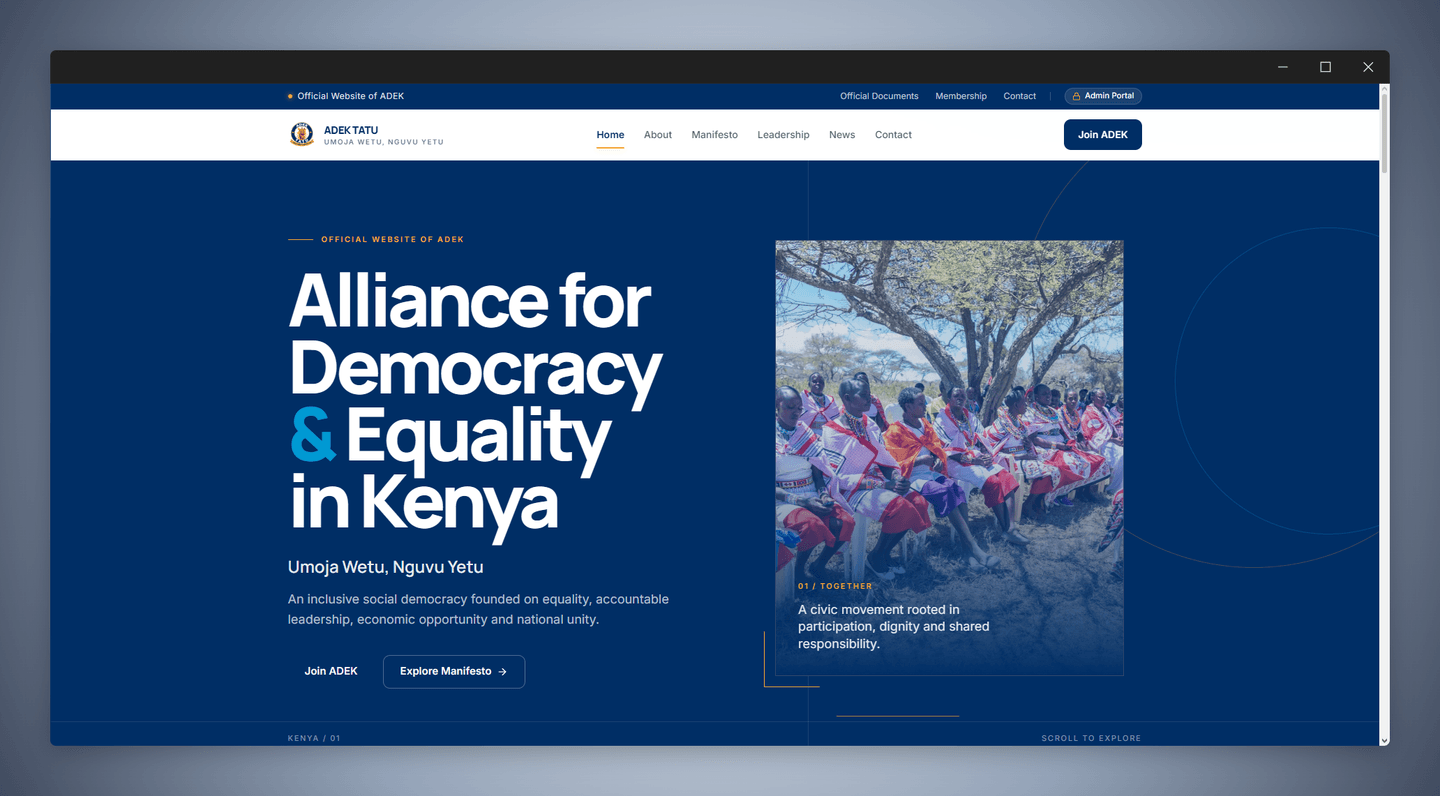
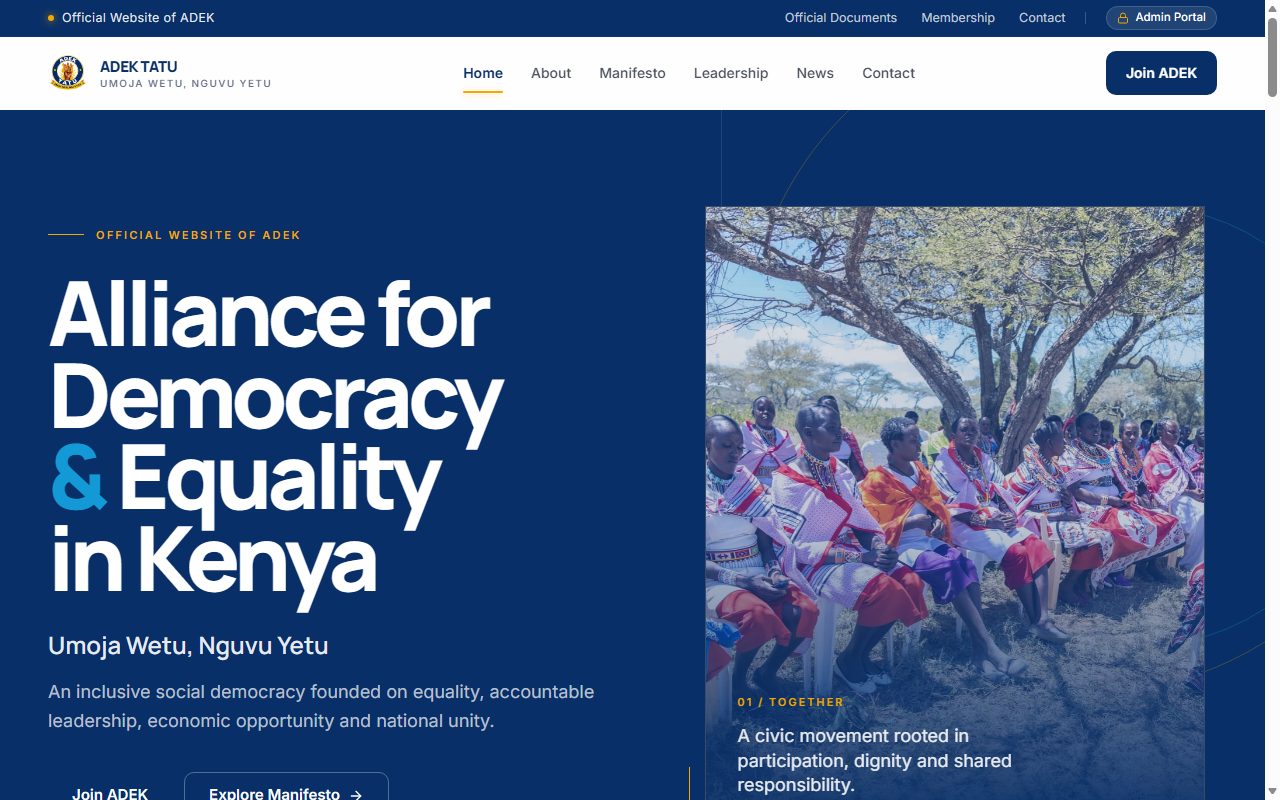
feat(work): replace synthetic mockups with high-resolution authentic live website captures and media

diff --git a/lib/data/projects.ts b/lib/data/projects.ts
@@ -40,8 +40,12 @@ export const projects: Project[] = [
       'Cloud deployment and operational monitoring',
     ],
     technologies: ['Next.js', 'TypeScript', 'PostgreSQL', 'AI workflows', 'Node.js'],
-    coverImage: '/og/SheriaBot AI User Dashboard.png',
+    coverImage: '/og/sheriabot_live.png',
     desktopScreenshots: [
+      {
+        src: '/og/sheriabot_live.png',
+        alt: 'SheriaBot — Live AI Regulatory Intelligence & Compliance Platform',
+      },
       {
         src: '/og/SheriaBot AI User Dashboard.png',
         alt: 'SheriaBot AI User Dashboard — Regulatory Intelligence & Compliance Platform',
@@ -106,7 +110,11 @@ export const projects: Project[] = [
     desktopScreenshots: [
       {
         src: '/og/adek_tatu_website.png',
-        alt: 'Adek Tatu — Modern Client Website & Brand Presentation',
+        alt: 'Adek Tatu — Live Community Website & Brand Platform',
+      },
+      {
+        src: '/og/adek_tatu_hero.jpg',
+        alt: 'Adek Tatu — Community Initiative & Public Welfare Platform',
       },
     ],
     mobileScreenshots: [],
@@ -218,7 +226,11 @@ export const projects: Project[] = [
     desktopScreenshots: [
       {
         src: '/og/rentworks_east_africa.png',
-        alt: 'RentWorks East Africa — Corporate Equipment Leasing & Asset Finance Website',
+        alt: 'RentWorks East Africa — Corporate Equipment Leasing & Asset Finance Live Platform',
+      },
+      {
+        src: '/og/rentworks_asset.jpg',
+        alt: 'RentWorks East Africa — Agricultural & Commercial Asset Leasing Solutions',
       },
     ],
     mobileScreenshots: [],
